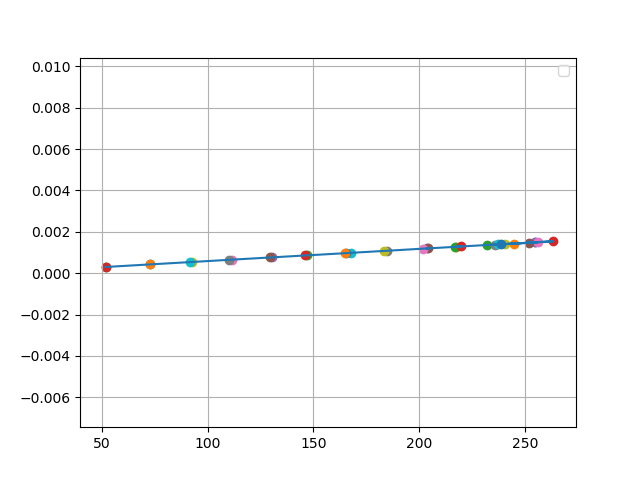
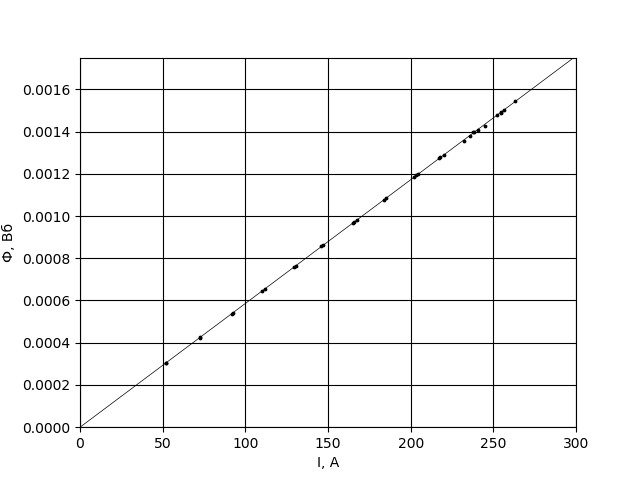
Modified newmain

diff --git a/newmain.py b/newmain.py
@@ -7,10 +7,6 @@ from scipy.optimize import curve_fit
 
 Rsh = 0.025 # сопротивление шунта
 MARKER_STEP = 30000
-def funcCh1(x, w, A1, phi):
-    return A1*np.sin(w*x + phi)
-#def T_max(y):
-#    return y.find(max(y))
 def get_num(str):
     return int(str[-6:-4])
 def get_ch(str):
@@ -26,14 +22,7 @@ for i in files:
     datX, datY, d = trc.open(InputDirectory+'/'+i)
     DATX[get_num(i)][get_ch(i)-1] = datX
     DATY[get_num(i)][get_ch(i)-1] = datY
-for i in range(len(DATX)):
-    if not DATX[i][0] == []:
-        plt.plot(DATX[i][0][::100], np.abs(DATY[i][0][::100]/0.025), lw = 0.5, label = str(i))
-        print("(Ch", i, 0, ") is added")
-plt.legend()
-plt.show()
 # графики интегралов
-
 def integral(x_, y_, st = 10000):
     ansy = []
     ansx = []
@@ -49,29 +38,20 @@ def addPlotInt(listPl):
         xaxe, integ = integral(DATX[listPl[i]][1], DATY[listPl[i]][1]/5)#так как намотал 5 витков
         xRel.append(max((DATY[listPl[i]][0]))/Rsh)
         yRel.append(max(integ))
-        print(max((DATY[listPl[i]][0]))/Rsh, max(integ))
-        plt.scatter(max((DATY[listPl[i]][0]))/Rsh, max(integ))
+        plt.scatter(max((DATY[listPl[i]][0]))/Rsh, max(integ), c = "black", s = 3)
         #plt.plot(DATX[listPl[i]][0][::100], 0.0013*DATY[listPl[i]][0][::100]/Rsh/240, label = 'I - '+str(i))# так как F = IL/N, где I = U/Rsh
-    plt.plot(xRel, yRel)
-def FluxRelCur(listL, listFl):
-    plt.plot(listL/Rsh, listFl/628/5)#т.к. витков 5 было намотано
-    plt.scatter(listL/Rsh, listFl/628/5)
-    plt.show()
+    par = np.polyfit(xRel, yRel, 1)
+    lsm = np.poly1d(par)
+    print("МНК для данных точек", par)
+    xline = np.linspace(0.3, 300-0.3, 1000)
+    yline = [lsm(i) for i in xline]
+    plt.plot(xline, yline, c = "black", lw = 0.5)
 
-
-"""
-ar_I_L = np.array([7, 6.3, 5.9, 5.3, 5.06, 4.58, 4.16, 3.66, 3.29, 2.883, 2.34, 1.83, 1.312])
-ar_I_fl = np.array([6.3, 5.68, 5.3, 4.82, 4.57, 4.14, 3.81, 3.35, 2.895, 2.5, 2.08, 1.65, 1.146])
-FluxRelCur(ar_I_L, ar_I_fl)
-
-addPlot([10, 12, 15, 13], [None, "*", "v", "s"])
-plt.grid()
-plt.xlabel("T, мс")
-plt.ylabel("U, В")
-plt.show()
-"""
 addPlotInt(range(1, 35))
-plt.grid()
-plt.legend()
+plt.grid(True, color = "k")
+plt.ylim(0, 0.00175)
+plt.xlim(0, 300)
+plt.xlabel("I, A")
+plt.ylabel("Ф, Вб")
 plt.savefig("Flux from Current")
 plt.show()
